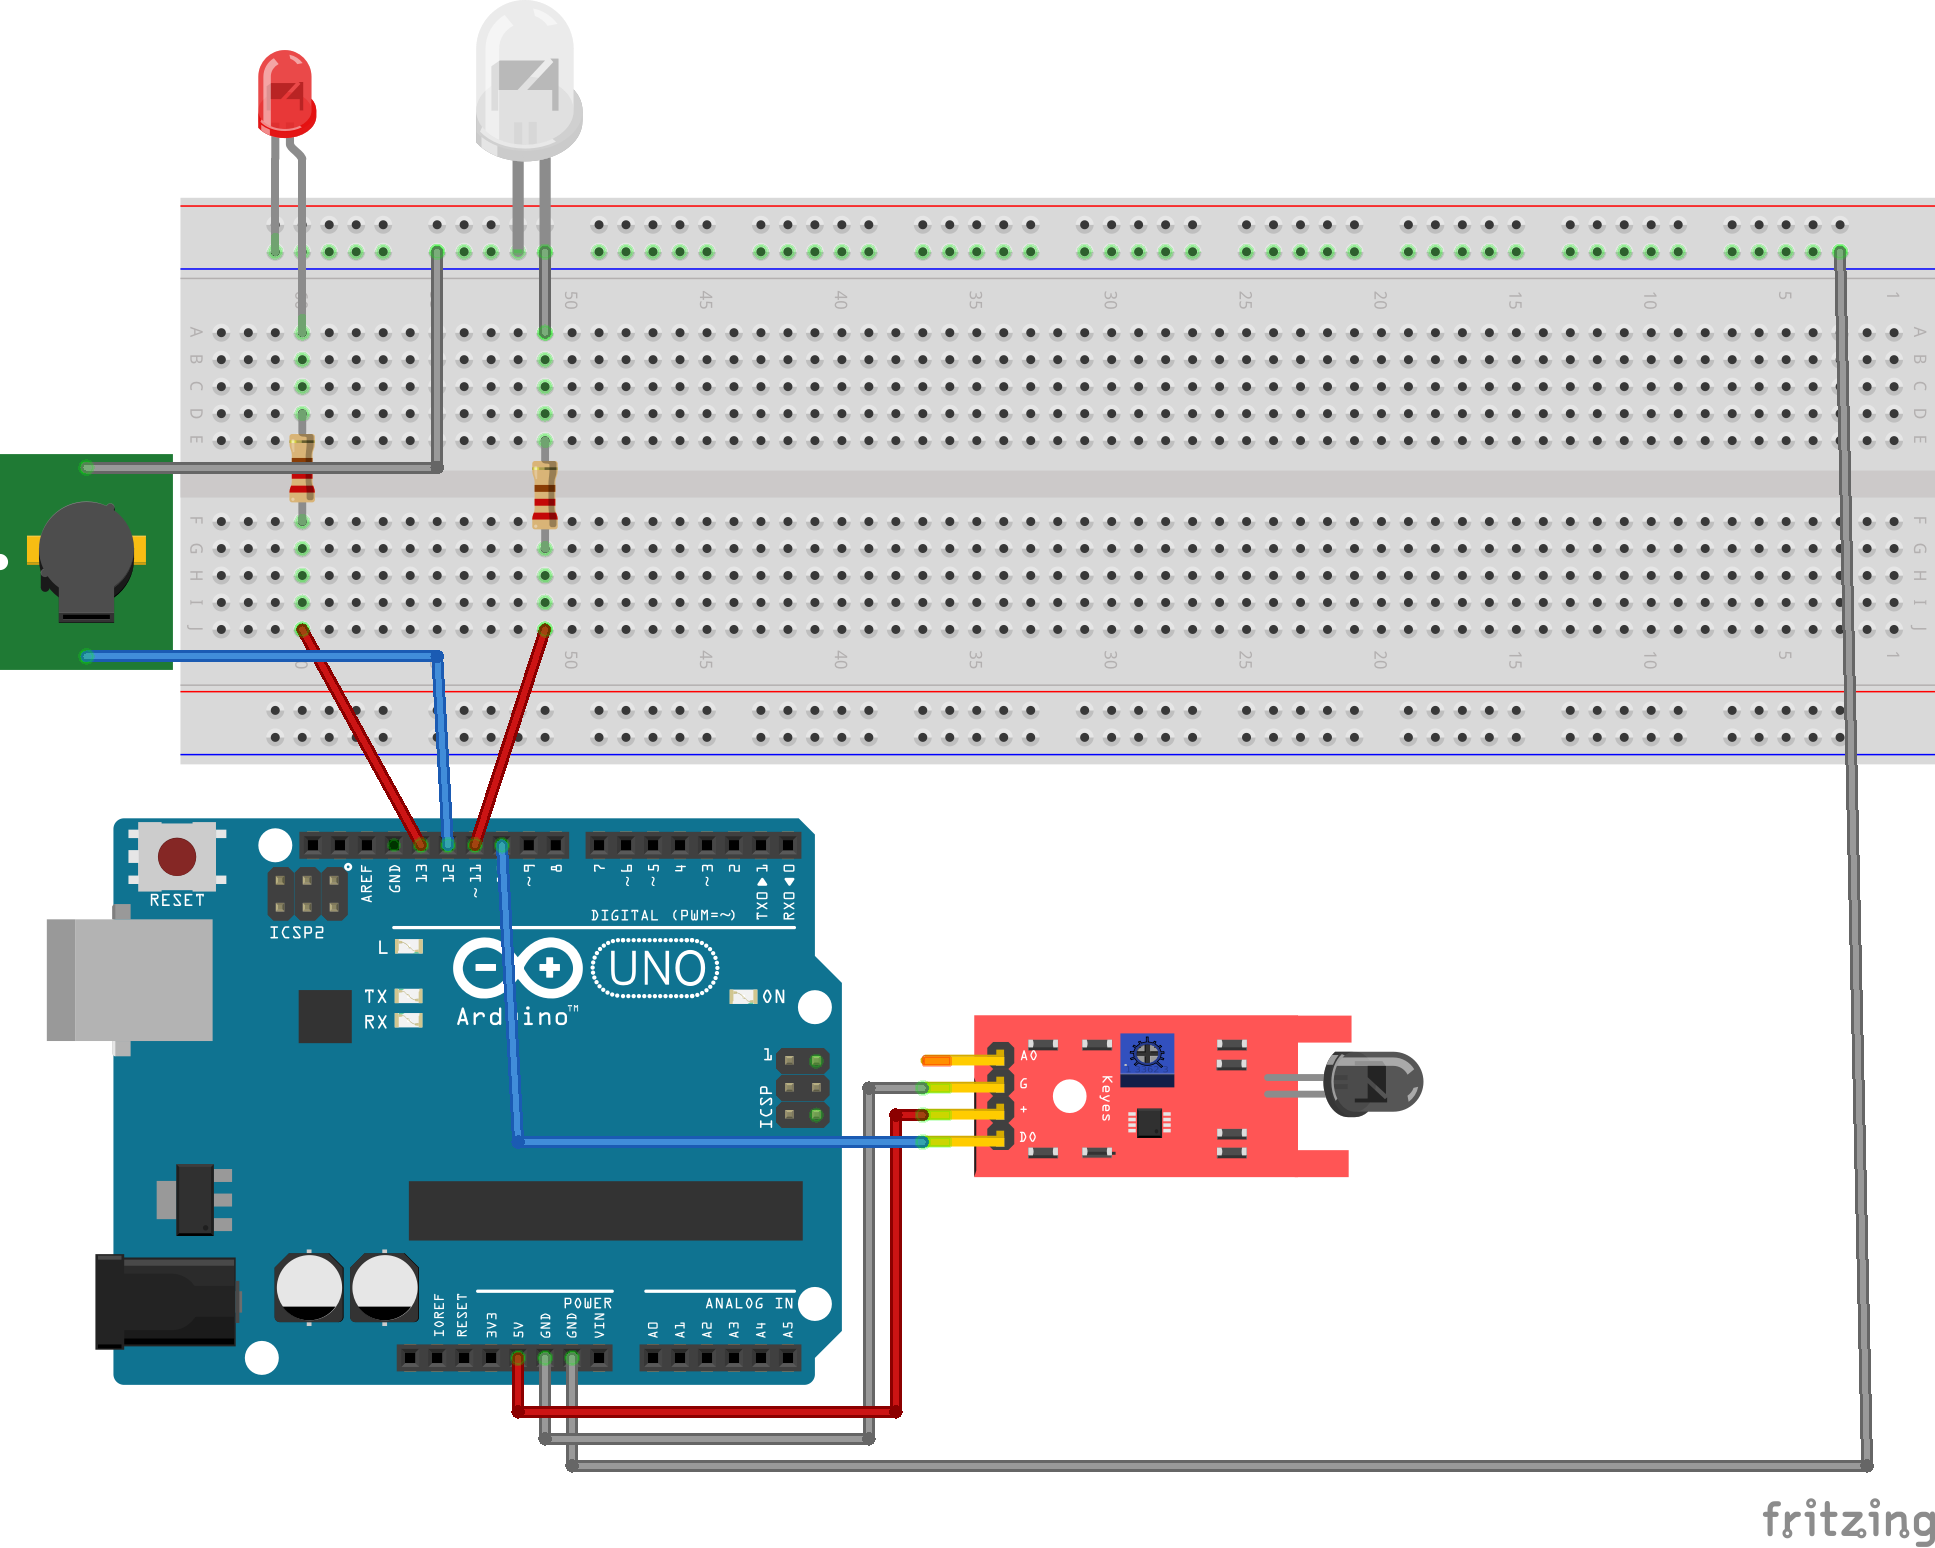
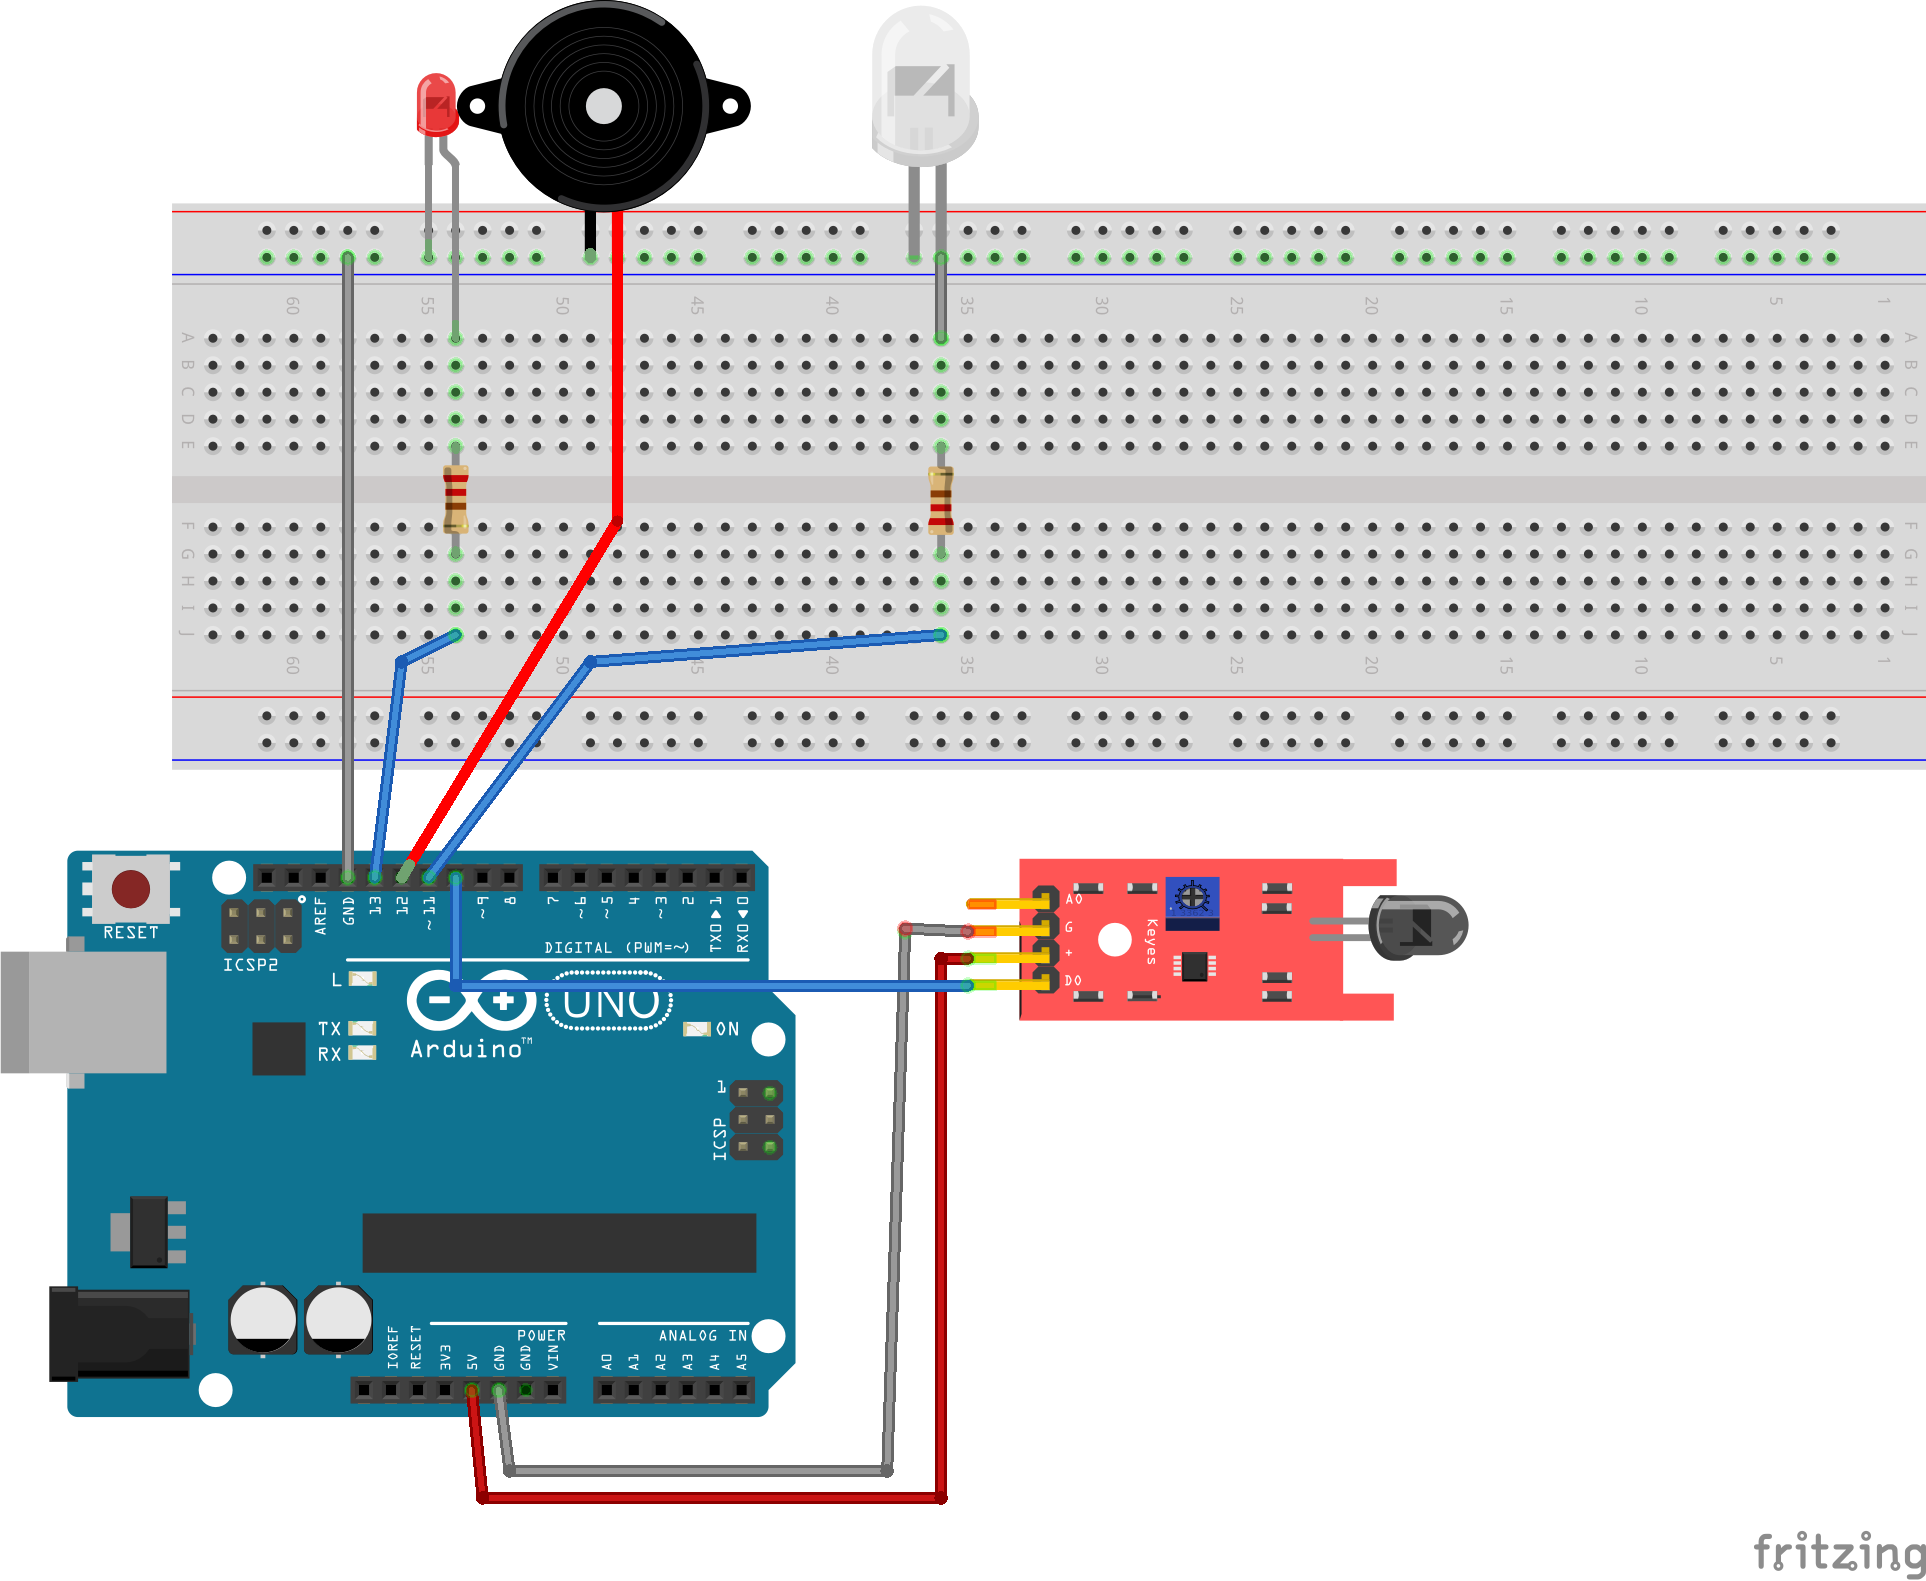
Correct a small bug in the connections

Changed region(s): [[0.0, 0.0, 1.0, 0.9612]]

diff --git a/Fire Alarm System - 1/Materials Required.html b/Fire Alarm System - 1/Materials Required.html
@@ -30,7 +30,7 @@ td {
 <body>
 <h1>Bill of Materials: Untitled Sketch.fzz</h1>
 <p class="meta">Untitled Sketch.fzz</p>
-<p class="meta">Saturday, July 24 2021, 19:29:59</p>
+<p class="meta">Saturday, August 14 2021, 16:39:06</p>
 
 <h2>Assembly List</h2>
 <table>
@@ -44,9 +44,13 @@ td {
   </thead>
   <tbody>
   <tr>
+    <td>J1</td>
+    <td>Piezo Speaker</td>
+    <td class="props"></td>
+</tr><tr>
     <td>LED1</td>
     <td>Red (633nm) LED</td>
-    <td class="props">color Red (633nm); leg yes; package 5 mm [THT]</td>
+    <td class="props">leg yes; package 3 mm [THT]; color Red (633nm)</td>
 </tr><tr>
     <td>LED2</td>
     <td>LEDs</td>
@@ -58,19 +62,15 @@ td {
 </tr><tr>
     <td>R1</td>
     <td>220Ω Resistor</td>
-    <td class="props">pin spacing 400 mil; resistance 220Ω; tolerance ±5%; package THT; bands 4</td>
+    <td class="props">tolerance ±5%; resistance 220Ω; pin spacing 400 mil; package THT; bands 4</td>
 </tr><tr>
     <td>R2</td>
     <td>220Ω Resistor</td>
-    <td class="props">pin spacing 400 mil; resistance 220Ω; tolerance ±5%; package THT; bands 4</td>
+    <td class="props">tolerance ±5%; resistance 220Ω; pin spacing 400 mil; package THT; bands 4</td>
 </tr><tr>
     <td>S1</td>
     <td>KY-026</td>
-    <td class="props">pins 4; variant variant 1; chip label flame sensor; editable pin labels false</td>
-</tr><tr>
-    <td>SG2</td>
-    <td>Buzzer 12mm</td>
-    <td class="props">variant smd2-kit; size 12mm; package buzzer-ccv-kit</td>
+    <td class="props">variant variant 1; chip label flame sensor; pins 4; editable pin labels false</td>
 </tr>
   </tbody>
 </table>
@@ -86,8 +86,12 @@ td {
   <tbody>
 <tr>
     <td>1</td>
+    <td>Piezo Speaker</td>
+    <td class="props"></td>
+</tr><tr>
+    <td>1</td>
     <td>Red (633nm) LED</td>
-    <td class="props">color Red (633nm); leg yes; package 5 mm [THT]</td>
+    <td class="props">leg yes; package 3 mm [THT]; color Red (633nm)</td>
 </tr><tr>
     <td>1</td>
     <td>LEDs</td>
@@ -99,15 +103,11 @@ td {
 </tr><tr>
     <td>2</td>
     <td>220Ω Resistor</td>
-    <td class="props">pin spacing 400 mil; resistance 220Ω; tolerance ±5%; package THT; bands 4</td>
+    <td class="props">tolerance ±5%; resistance 220Ω; pin spacing 400 mil; package THT; bands 4</td>
 </tr><tr>
     <td>1</td>
     <td>KY-026</td>
-    <td class="props">pins 4; variant variant 1; chip label flame sensor; editable pin labels false</td>
-</tr><tr>
-    <td>1</td>
-    <td>Buzzer 12mm</td>
-    <td class="props">variant smd2-kit; size 12mm; package buzzer-ccv-kit</td>
+    <td class="props">variant variant 1; chip label flame sensor; pins 4; editable pin labels false</td>
 </tr>
   </tbody>
 </table>

diff --git a/Fire Alarm System - 2/Materials Required.html b/Fire Alarm System - 2/Materials Required.html
@@ -30,7 +30,7 @@ td {
 <body>
 <h1>Bill of Materials: Untitled Sketch.fzz</h1>
 <p class="meta">Untitled Sketch.fzz</p>
-<p class="meta">Saturday, July 24 2021, 19:37:47</p>
+<p class="meta">Saturday, August 14 2021, 16:43:54</p>
 
 <h2>Assembly List</h2>
 <table>
@@ -44,9 +44,13 @@ td {
   </thead>
   <tbody>
   <tr>
+    <td>J1</td>
+    <td>Piezo Speaker</td>
+    <td class="props"></td>
+</tr><tr>
     <td>LED1</td>
     <td>Red (633nm) LED</td>
-    <td class="props">color Red (633nm); leg yes; package 5 mm [THT]</td>
+    <td class="props">leg yes; package 3 mm [THT]; color Red (633nm)</td>
 </tr><tr>
     <td>LED2</td>
     <td>LEDs</td>
@@ -58,19 +62,15 @@ td {
 </tr><tr>
     <td>R1</td>
     <td>220Ω Resistor</td>
-    <td class="props">pin spacing 400 mil; resistance 220Ω; tolerance ±5%; package THT; bands 4</td>
+    <td class="props">tolerance ±5%; resistance 220Ω; pin spacing 400 mil; package THT; bands 4</td>
 </tr><tr>
     <td>R2</td>
     <td>220Ω Resistor</td>
-    <td class="props">pin spacing 400 mil; resistance 220Ω; tolerance ±5%; package THT; bands 4</td>
+    <td class="props">tolerance ±5%; resistance 220Ω; pin spacing 400 mil; package THT; bands 4</td>
 </tr><tr>
     <td>S1</td>
     <td>KY-026</td>
-    <td class="props">pins 4; variant variant 1; chip label flame sensor; editable pin labels false</td>
-</tr><tr>
-    <td>SG2</td>
-    <td>Buzzer 12mm</td>
-    <td class="props">variant smd2-kit; size 12mm; package buzzer-ccv-kit</td>
+    <td class="props">variant variant 1; chip label flame sensor; pins 4; editable pin labels false</td>
 </tr>
   </tbody>
 </table>
@@ -86,8 +86,12 @@ td {
   <tbody>
 <tr>
     <td>1</td>
+    <td>Piezo Speaker</td>
+    <td class="props"></td>
+</tr><tr>
+    <td>1</td>
     <td>Red (633nm) LED</td>
-    <td class="props">color Red (633nm); leg yes; package 5 mm [THT]</td>
+    <td class="props">leg yes; package 3 mm [THT]; color Red (633nm)</td>
 </tr><tr>
     <td>1</td>
     <td>LEDs</td>
@@ -99,15 +103,11 @@ td {
 </tr><tr>
     <td>2</td>
     <td>220Ω Resistor</td>
-    <td class="props">pin spacing 400 mil; resistance 220Ω; tolerance ±5%; package THT; bands 4</td>
+    <td class="props">tolerance ±5%; resistance 220Ω; pin spacing 400 mil; package THT; bands 4</td>
 </tr><tr>
     <td>1</td>
     <td>KY-026</td>
-    <td class="props">pins 4; variant variant 1; chip label flame sensor; editable pin labels false</td>
-</tr><tr>
-    <td>1</td>
-    <td>Buzzer 12mm</td>
-    <td class="props">variant smd2-kit; size 12mm; package buzzer-ccv-kit</td>
+    <td class="props">variant variant 1; chip label flame sensor; pins 4; editable pin labels false</td>
 </tr>
   </tbody>
 </table>

diff --git a/Fire Alarm System - 1/README.md b/Fire Alarm System - 1/README.md
@@ -1,3 +1,4 @@
 # Fire Alert System - 1
 
-Fire Alarm System - 1 is a Fire or Not System, that is it does not provide any scaling of the fire.
+Fire Alarm System - 1 is a Fire or Not straight forward System, that is it does not provide any scaling of the fire.
+
